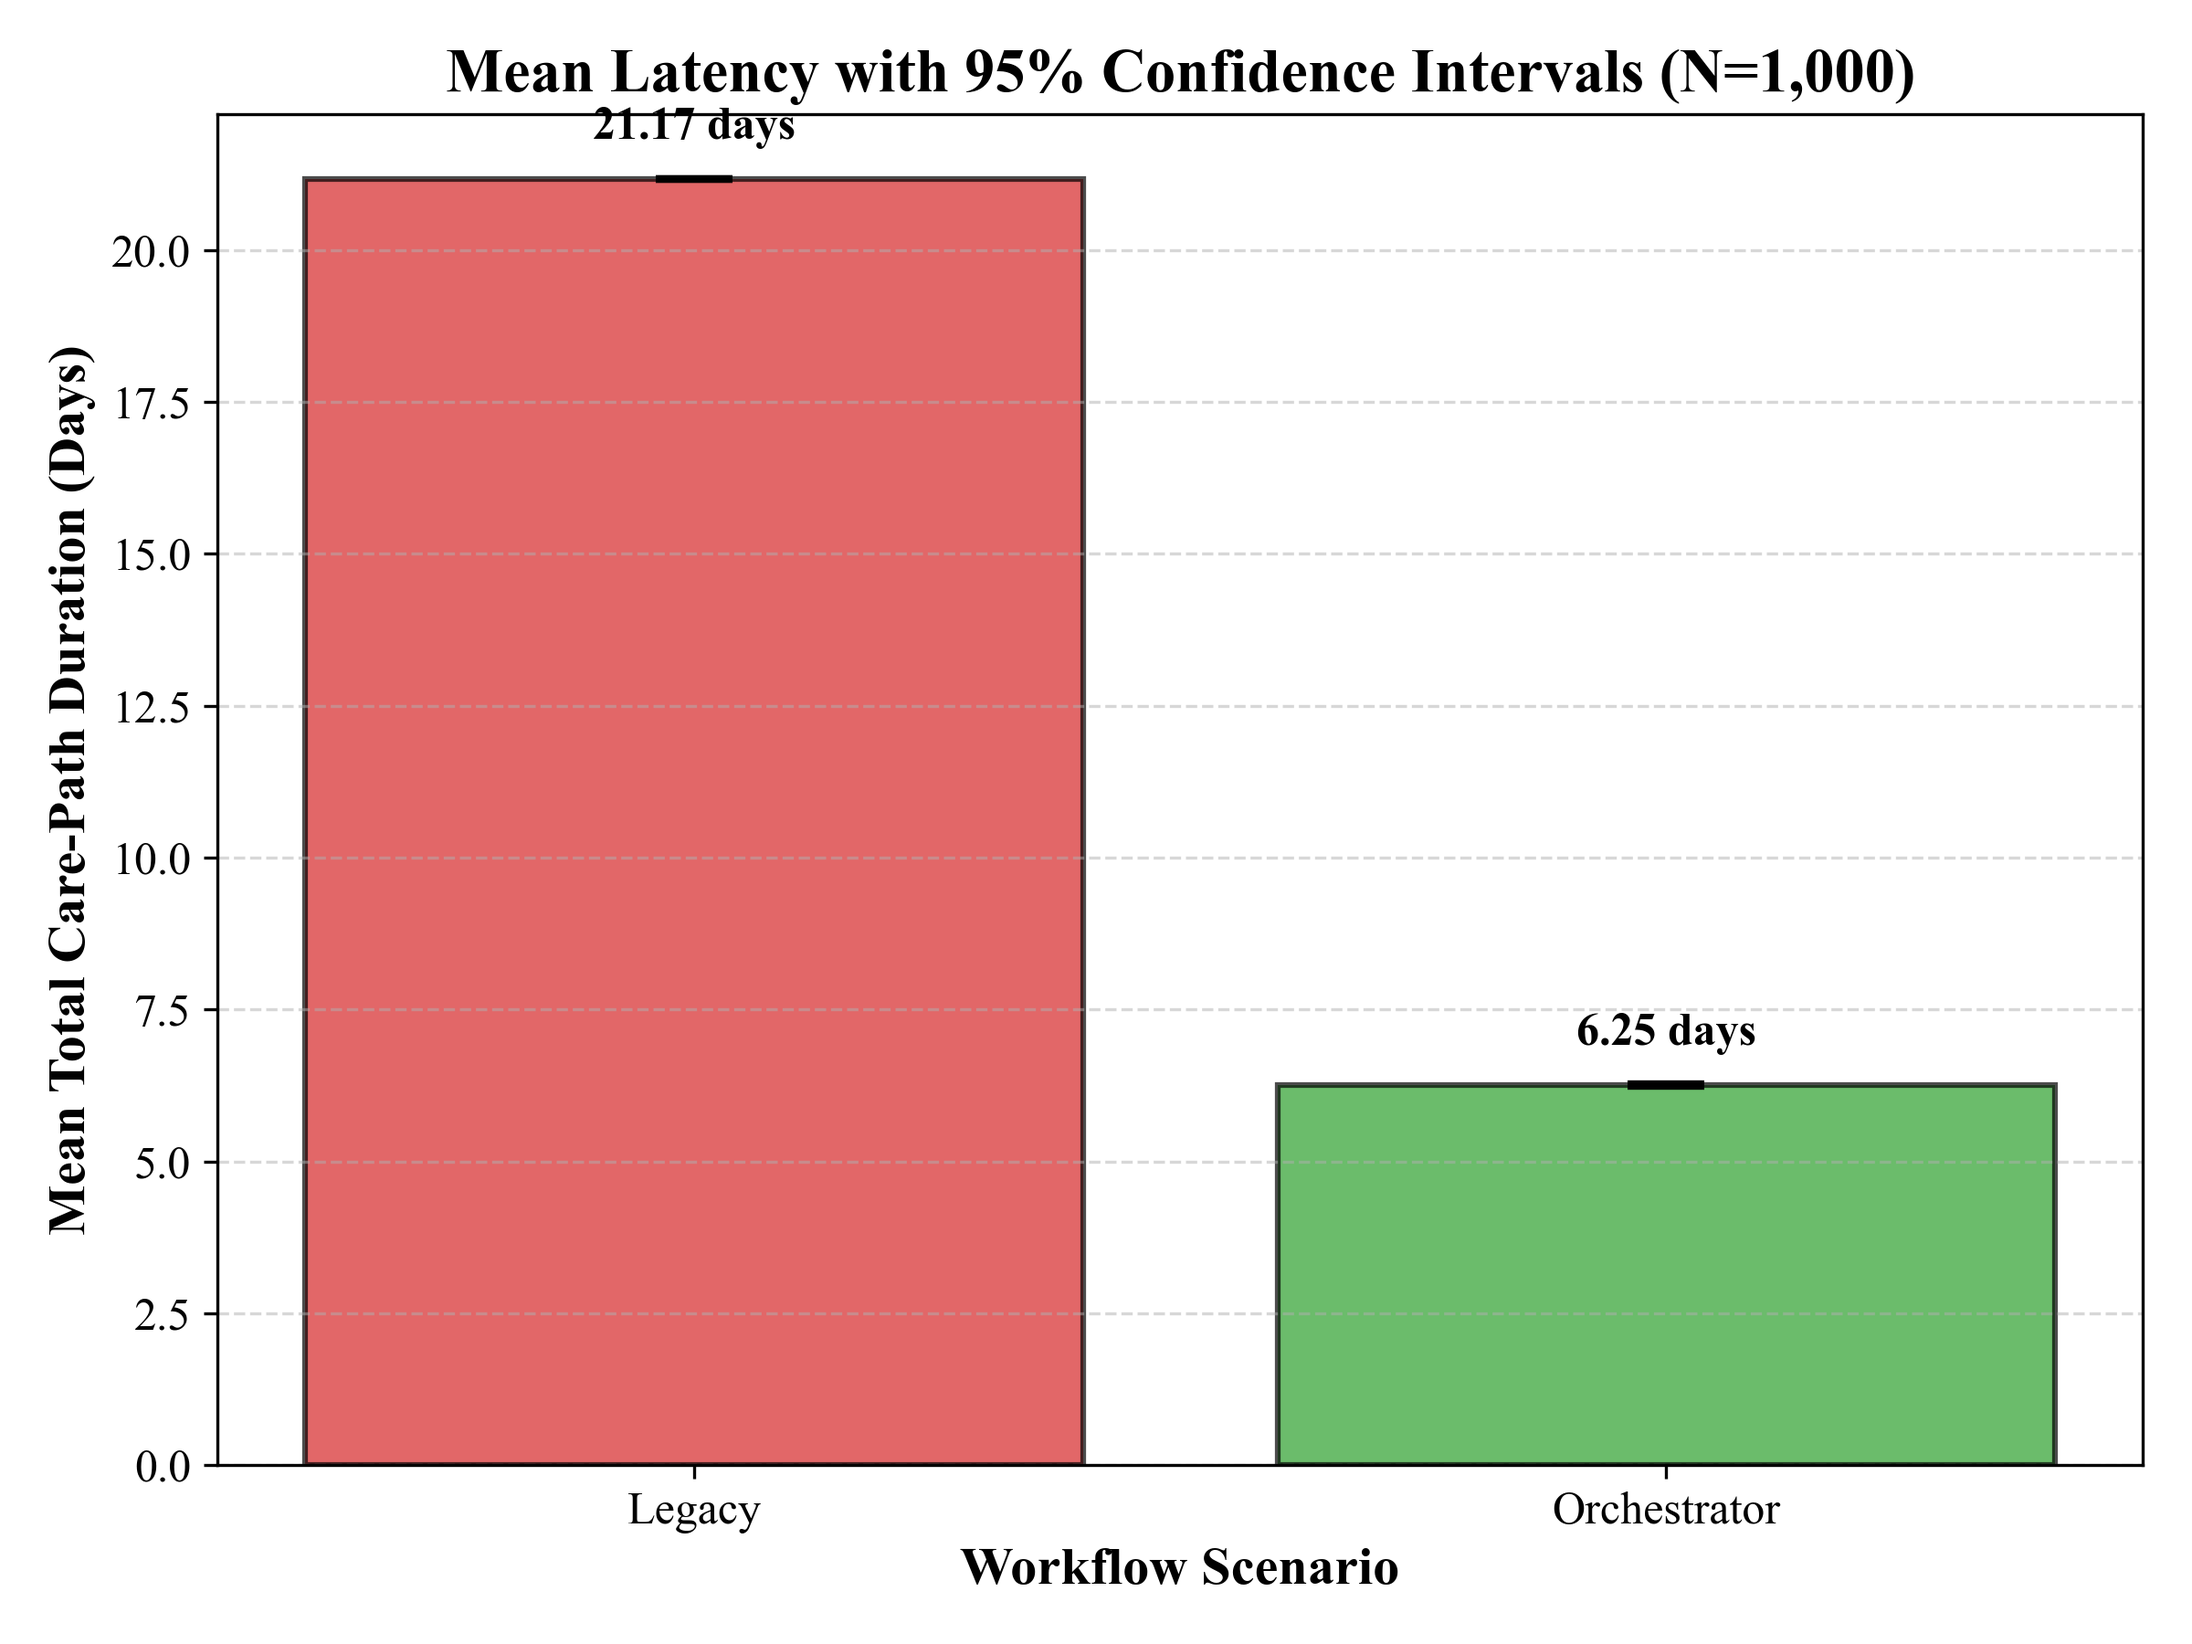
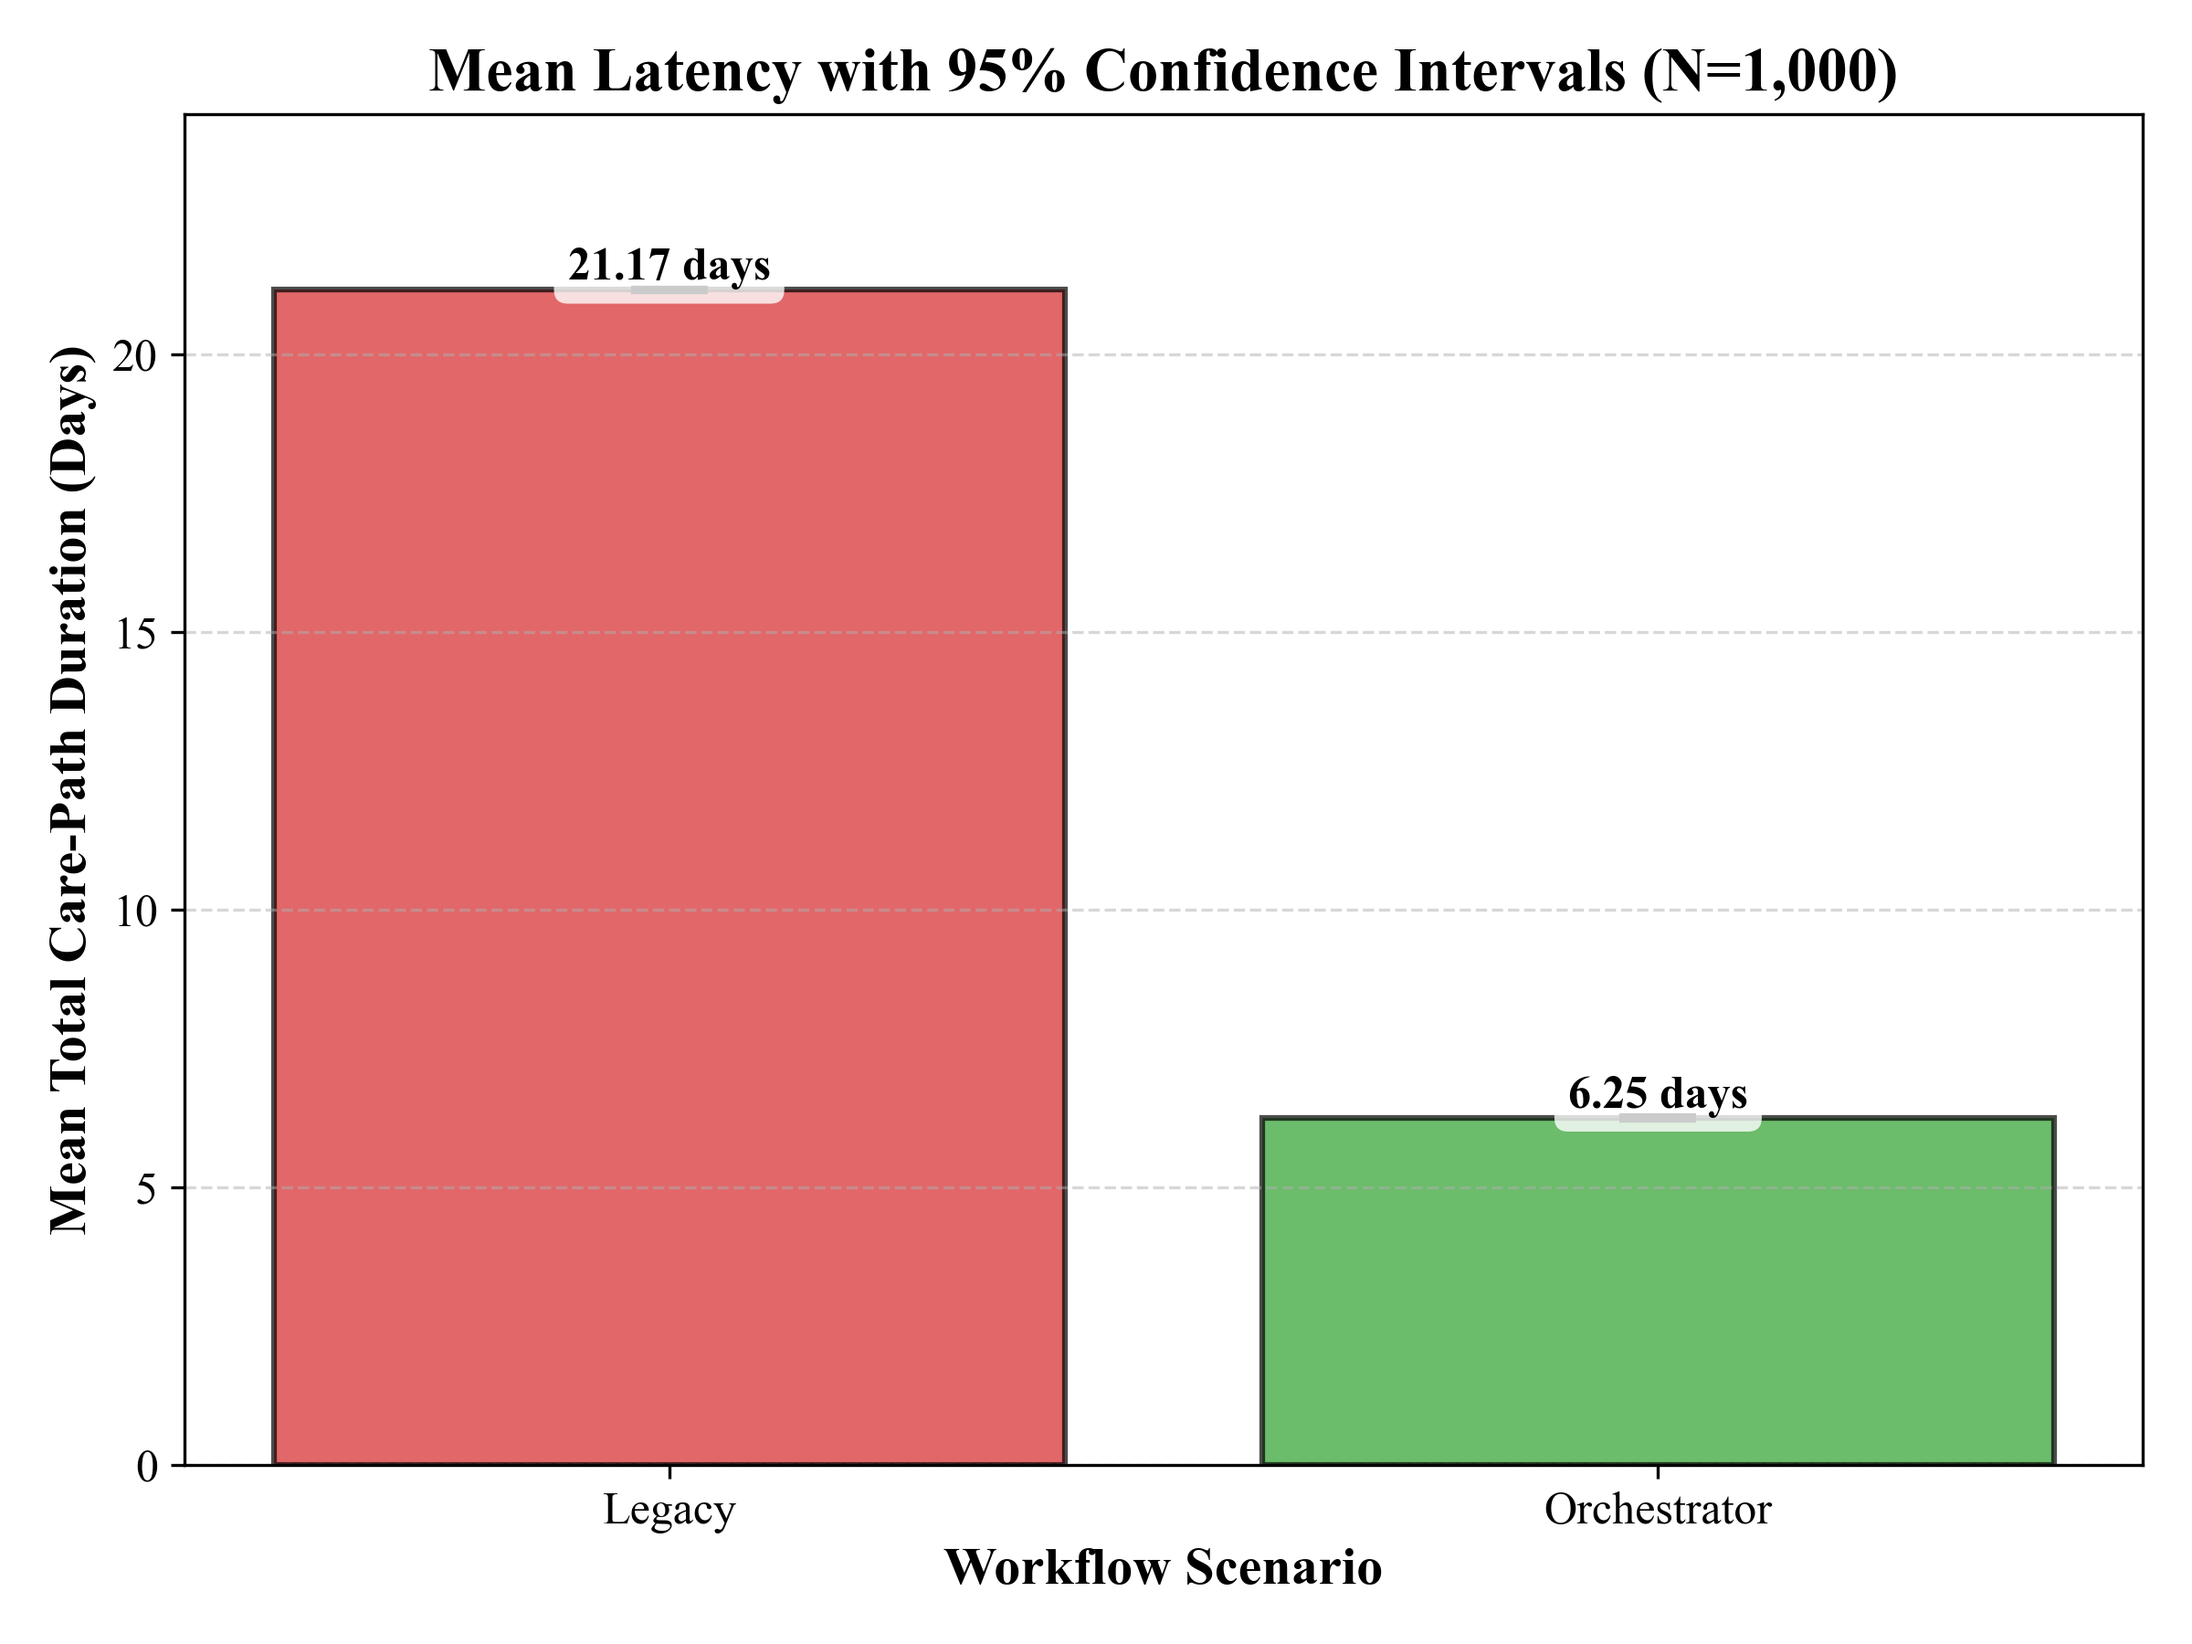
Fix Fig3: prevent label overlap with border
- Increase y-axis limit to 115% of max value for label space
- Position labels directly on bar tops (no offset needed with new limit)
- Add white background box to labels for better readability
- Resolves '21.17 days' text mixing with top border

diff --git a/src/statistical_analysis.py b/src/statistical_analysis.py
@@ -194,10 +194,14 @@ def plot_confidence_intervals(descriptive_stats):
     ax.set_xticklabels(scenarios)
     ax.grid(axis='y', linestyle='--', alpha=0.5)
     
+    # Set y-axis limit to provide space for labels
+    ax.set_ylim(0, max(means) * 1.15)
+    
     # Add value labels on bars
     for i, (mean, scenario) in enumerate(zip(means, scenarios)):
-        ax.text(i, mean + 0.5, f'{mean:.2f} days', 
-               ha='center', va='bottom', fontweight='bold')
+        ax.text(i, mean, f'{mean:.2f} days', 
+               ha='center', va='bottom', fontweight='bold', 
+               bbox=dict(boxstyle='round,pad=0.3', facecolor='white', edgecolor='none', alpha=0.8))
     
     plt.tight_layout()
     plt.savefig('Fig3_Confidence_Intervals.png')
